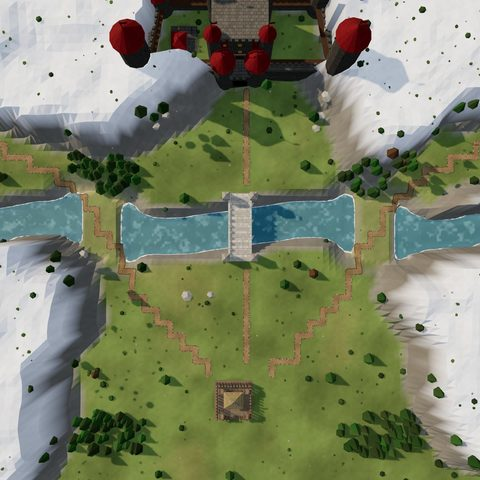
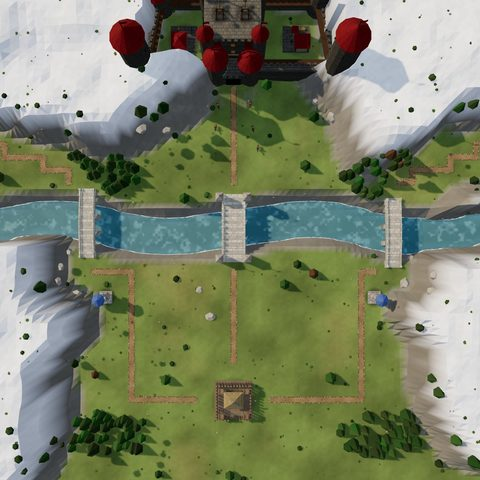
Warlord's Hold: stables back, door meets the ground, gate/road/bridge aligned, horse guard idling outside, two trebuchets on the keep, waving bridge flags, stone bridges and straight roads on the side passes, tier-3 archer towers by them
Claude-Session: https://claude.ai/code/session_01AE8sRRsVdpH9ETfQvtppox

diff --git a/index.html b/index.html
@@ -1108,12 +1108,15 @@ function keepHeight(x, z) {
 }
 // Warlord's Hold (stage 12, final boss, 80 m): snowy mountains round the north and both sides, the hold on a crag at the top, a river
 // across the middle (a stone bridge on the gate's road, frozen crossings where the two mountain passes come down), pines on the slopes
-const HOLD_POLY = [[28, 4.5], [52, 4.5], [54, 15], [26, 15]], HOLD_GATE = [40, 15];
+// the gate, the grand bridge and the road all on x 39, the middle of the road's cell (Jack: the road ran a cell right of the door)
+const HOLD_POLY = [[28, 4.5], [52, 4.5], [54, 15], [26, 15]], HOLD_GATE = [39, 15];
 const HOLD_MTNS = [[14, 12, 20, 16, 1], [66, 12, 20, 16, 2], [6, 52, 11, 23, 3], [74.5, 52, 11, 23, 4]];
 const HOLD_RIVER = smoothPts([[-1, 38], [12, 36], [26, 40], [40, 38], [54, 36], [66, 40], [81, 38]]);
-const HOLD_PASSES = [smoothPts([[-1, 25], [8, 28], [15, 33], [20, 42], [24, 49], [30, 56], [35, 61]]), smoothPts([[81, 25], [72, 28], [65, 33], [60, 42], [56, 49], [50, 56], [45, 61]])];
-const HOLD_ROADS = [[[40, 17], [40, 33]], [[40, 43], [40, 60]], ...HOLD_PASSES];
-const HOLD_ICE = [17.6, 61.8];   // where the two passes cross the river: a plain land crossing (a ford of grass and earth)
+// the two mountain passes: down from the side edges to a stone bridge each (x 16 and 64), then in long straight runs to the castle's
+// sides (Jack: the diagonal roads laid as zigzags; they crossed the river by land before)
+const HOLD_PASSES = [[[-1, 25], [8, 28], [14, 31], [16, 33], [16, 45], [22, 45], [22, 65], [34, 65]], [[81, 25], [72, 28], [66, 31], [64, 33], [64, 45], [58, 45], [58, 65], [44, 65]]];
+const HOLD_ROADS = [[[39, 17], [39, 33]], [[39, 43], [39, 60]], ...HOLD_PASSES];
+const HOLD_ICE = [];   // where the two passes cross the river: a plain land crossing (a ford of grass and earth)
 const holdMtn = (x, z) => Math.max(...HOLD_MTNS.map(([cx, cz, rx, rz, sd]) => 1 - sstep(.75, 1.05, blobD(x, z, [cx, cz, rx, rz], sd)))) * sstep(3, 6, Math.min(...HOLD_PASSES.map(p => polyDist(p, x, z))));
 const holdOpen = (x, z) => holdMtn(x, z) < .5;
 const holdRiverZ = x => { const P = HOLD_RIVER; for (let i = 0; i < P.length - 1; i++) if (x >= P[i][0] && x <= P[i + 1][0]) return lerp(P[i][1], P[i + 1][1], (x - P[i][0]) / (P[i + 1][0] - P[i][0])); return 38; };
@@ -1122,13 +1125,17 @@ function holdHeight(x, z) {
   h += holdMtn(x, z) * (9 + 12 * fbm(x * .07 + 5, z * .07 + 9));
   h += 3.2 * (1 - sstep(.4, 1.1, blobD(x, z, [40, 9.5, 16, 10], 6)));
   if (inPoly(HOLD_POLY, x, z)) h = 6 + .1 * fbm(x * .3, z * .3);
+  // a ramp down from the gate, so its door meets the ground (Jack)
+  else if (z > 14.5 && z < 22) h = lerp(h, lerp(6, h, sstep(15.4, 21.5, z)), sstep(3.4, 2.2, Math.abs(x - HOLD_GATE[0])));
   h = lerp(3 + (h - 3) * .35, h, sstep(6, 11, Math.hypot(x - KX, z - KZ)));
   const fd = Math.min(...HOLD_ICE.map(f => Math.abs(x - f))), ice = sstep(4.2, 2.6, fd), ramp = sstep(9, 4.5, fd);
   const d = polyDist(HOLD_RIVER, x, z), river = lerp(-1.3, h, lerp(sstep(2.2, 4.6, d), sstep(2.4, 9, d), ramp));
   return d < 5 ? Math.max(river, lerp(river, .6 + .05 * vnoise(x * .9, z * .9), ice)) : river;
 }
 // the boss stages' fixed scenery nobody walks through or builds on: the keep and the burned village's ruins, the hold
-const sceneryAt = (x, z) => MAP === 'keep' ? inPoly(KEEP_POLY, x, z) || KEEP_RUINS.some(([a, b]) => Math.hypot(x - a, z - b) < 1.3) : MAP === 'hold' ? inPoly(HOLD_POLY, x, z) : false;
+// the Warlord's horse guard idling outside the gate (Jack: livelier): tier-3 horse swords, scenery
+const HOLD_RIDERS = [[36.6, 19.2, .3], [41.6, 19, -.3], [36.2, 22.4, -.15], [42, 22.6, .2], [42.8, 25.6, -.1]];
+const sceneryAt = (x, z) => MAP === 'hold' && HOLD_RIDERS.some(([a, b]) => Math.hypot(x - a, z - b) < .8) ? true : MAP === 'keep' ? inPoly(KEEP_POLY, x, z) || KEEP_RUINS.some(([a, b]) => Math.hypot(x - a, z - b) < 1.3) : MAP === 'hold' ? inPoly(HOLD_POLY, x, z) : false;
 // the maps with ground nobody may walk or build on (Mountain pass's mountains, Greenvale's hills)
 const mapOpen = (x, z) => MAP === 'pass' ? passOpen(x, z) : MAP === 'vale' ? valeOpen(x, z) : MAP === 'hold' ? holdOpen(x, z) : true;
 function genHeight(x, z) {
@@ -1188,7 +1195,7 @@ const bridgeCell = new Uint8Array(N_MAX * N_MAX), BRIDGE_RISE = .45, DECK_W = 1.
 // where each map's bridges cross: a start point and a direction, marched along until the river is crossed
 function bridgeRays() {
   if (MAP === 'pass' || MAP === 'vale' || MAP === 'cross' || MAP === 'watch' || MAP === 'dune' || MAP === 'crag' || MAP === 'plains' || MAP === 'keep') return [];
-  if (MAP === 'hold') { const z0 = holdRiverZ(40); return [{ ox: 40, oz: z0 - 9, dx: 0, dz: 1, stone: true, grand: true, w: 3.2 }]; }
+  if (MAP === 'hold') return [{ ox: 39, oz: holdRiverZ(39) - 9, dx: 0, dz: 1, stone: true, grand: true, w: 3.2 }, ...[16, 64].map(x => ({ ox: x, oz: holdRiverZ(x) - 9, dx: 0, dz: 1, stone: true }))];
   if (MAP === 'mere') return [MERE_BRIDGE];
   if (MAP === 'ford') return [{ ox: FORD_BRIDGE_X, oz: fordRiverZ(FORD_BRIDGE_X) - 10, dx: 0, dz: 1, stone: true }];
   if (MAP === 'bend') return BEND_BRIDGES.map(([ox, oz, dx, dz]) => ({ ox, oz, dx, dz }));
@@ -2741,7 +2748,7 @@ function makeStoneBridge(b) {
     for (const s of [-1, 1]) for (const x of [-1, 1]) {
       const z = s * (L / 2 - .6), y = yAt(z), tw = box(1.1, 3.2, 1.1, M.stone2, x * (W / 2 + .5), y + 1.4, z); g.add(tw);
       const cap = new THREE.Mesh(new THREE.ConeGeometry(.85, 1.1, 4), M.plainStone); cap.position.set(x * (W / 2 + .5), y + 3.55, z); cap.rotation.y = Math.PI / 4; g.add(cap);
-      g.add(cyl(.035, .035, 1.2, 5, M.timber, x * (W / 2 + .5), y + 4.6, z)); const f = box(.03, .34, .55, raiderRed, x * (W / 2 + .5), y + 4.95, z - .28); g.add(f);
+      g.add(cyl(.035, .035, 1.2, 5, M.timber, x * (W / 2 + .5), y + 4.6, z)); g.add(flagBox(.55, .34, .03, raiderFlagM(), x * (W / 2 + .5) + .28, y + 4.95, z));
     }
     for (let z = -L / 2 + 1.4; z < L / 2 - 1.3; z += .9) for (const x of [-1, 1]) g.add(box(.26, .2, .34, M.stone2, x * (W / 2 + .1), yAt(z) + .74, z));
   }
@@ -2749,6 +2756,8 @@ function makeStoneBridge(b) {
   g.position.set(b.mx, 0, b.mz); g.rotation.y = Math.atan2(b.dx, b.dz);
   return g;
 }
+// the raiders' red flag, waving like the town's (M.flag's shader); the grand bridge's flags fly the same way as the hold's
+let _rfm = null; const raiderFlagM = () => { if (!_rfm) { _rfm = M.flag.clone(); _rfm.onBeforeCompile = M.flag.onBeforeCompile; _rfm.color.set('#8e1d16'); } return _rfm; };
 function buildBridges() { for (const b of bridges) { b.g = makeBridge(b); scene.add(b.g); } }
 
 // ---------- the other economy picks: forester, mine, farmhouse ----------
@@ -6775,7 +6784,7 @@ function buildRaiderKeep(g) {
   placeModel(g, 'rack', 1, 45, 19); placeModel(g, 'campfire', 1, 45.5, 14.5); placeModel(g, 'stores', 1, 35.5, 12.5); placeModel(g, 'rack', 1, 47, 17);
 }
 function buildWarlordsHold(g) {
-  const P = HOLD_POLY, [gx, gz] = HOLD_GATE, cx = 40, cz = 9.5, Y = (x, z) => hAt(x, z), y0 = Y(cx, cz);
+  const P = HOLD_POLY, [gx, gz] = HOLD_GATE, cx = gx, cz = 9.5, Y = (x, z) => hAt(x, z), y0 = Y(cx, cz);
   // the hold stands on its crag's flat top, but its walls sit on the crag's edge where the ground falls away outside: every wall piece,
   // tower and the keep reach down to the lowest ground under them (Jack saw the east side floating), their tops stay level
   const low = (x, z, r) => { let m = Y(x, z); for (let i = 0; i < 12; i++) { const a = i / 12 * Math.PI * 2; for (const f of [.5, 1, 1.6]) m = Math.min(m, Y(x + Math.cos(a) * r * f, z + Math.sin(a) * r * f)); } return m - 1.2; };
@@ -6803,7 +6812,7 @@ function buildWarlordsHold(g) {
   }
   // the gatehouse: two round towers either side of an arched passage, a portcullis
   for (const sx of [-1, 1]) roundTower(gx + sx * 2.4, gz, 1.5, 6.8);
-  { const y = Y(gx, gz), b = low(gx, gz, 1.6); g.add(box(3.4, y + 4.3 - b, 2.6, M.stone, gx, (y + 4.3 + b) / 2, gz)); g.add(box(2.2, 2.8, 2.7, M.dark, gx, y + 1.1, gz + .02));
+  { const y = Y(gx, gz), b = low(gx, gz, 1.6); g.add(box(3.4, y + 4.3 - b, 2.6, M.stone, gx, (y + 4.3 + b) / 2, gz)); g.add(box(2.2, 2.9, 2.7, M.dark, gx, y + 1.15, gz + .02));
     for (let k = -.8; k <= .81; k += .4) g.add(box(.06, 2.6, .06, M.iron, gx + k, y + 1.2, gz + 1.32)); g.add(box(2, .08, .06, M.iron, gx, y + 1.9, gz + 1.32));
     merlons(gx - 1.7, gz + 1.25, gx + 1.7, gz + 1.25, y + 4.3, 0, -1); }
   // the keep: a tall masonry block, four corner turrets with cone roofs, two rows of windows, a framed door, hanging banners
@@ -6814,8 +6823,9 @@ function buildWarlordsHold(g) {
   for (const r of [3.6, 6.4]) for (const k of [-2.2, 0, 2.2]) g.add(box(.55, .9, .06, M.glow, cx + k, y0 + r, cz + 3.12));
   g.add(box(1.3, 2.1, .1, DOOR_M[3], cx, y0 + 1.05, cz + 3.13)); for (const sx of [-1, 1]) g.add(box(.25, 2.4, .25, M.stone2, cx + sx * .8, y0 + 1.2, cz + 3.15)); g.add(box(1.85, .3, .3, M.stone2, cx, y0 + 2.4, cz + 3.15));
   for (const sx of [-1, 1]) { const b = box(1, 3, .05, M.flag, cx + sx * 2.2, y0 + 6.8, cz + 3.15); b.castShadow = true; g.add(b); }
-  // inside the walls: the town's garrison (the royal stables were dropped: Jack)
-  placeModel(g, 'barracks', 3, 31.5, 9.5, 1, Math.PI / 2);
+  // inside the walls: the town's garrison and royal stables; two trebuchets on the keep's roof, aimed south (Jack)
+  placeModel(g, 'barracks', 3, 31.5, 9.5, 1, Math.PI / 2); placeModel(g, 'stables', 3, 48.5, 9.5, 1, -Math.PI / 2);
+  for (const sx of [-1, 1]) placeModel(g, 'catapult', 3, cx + sx * 1.7, cz, .9).position.y = y0 + 9.5;
 }
 function placeBossScenery() {
   if (bossMesh) { scene.remove(bossMesh); bossMesh = null; }
@@ -6828,7 +6838,19 @@ function placeBossScenery() {
     for (let i = 0; i < 4; i++) { const a = i * Math.PI / 2 + .3, h = .5 + hash(x + i, z) * 1.1, w = box(1.7, h, .22, charM, x + Math.cos(a) * .85, yy + h / 2 - .1, z + Math.sin(a) * .85); w.rotation.y = -a + Math.PI / 2; g.add(w); }
     const bm = box(2, .18, .18, charM, x, yy + .4, z); bm.rotation.set(.3, hash(x, z) * 3, .4); g.add(bm);
   }
+  if (MAP === 'hold') { holdRiders = HOLD_RIDERS.map(([x, z, ry], i) => { const p = makeRaider('rider', 3); p.g.scale.setScalar(UNIT_K); p.g.position.set(x, hAt(x, z), z); p.g.rotation.y = ry; p.g.traverse(o => { if (o.isMesh) o.castShadow = true; }); g.add(p.g); return { p, ry, s: i * 1.9 + .7 }; }); }
+  else holdRiders = [];
   scene.add(g); bossMesh = g;
+}
+// they shift their weight, turn a little, the horses now and then paw the ground and toss their heads
+let holdRiders = [];
+function animHoldRiders(t) {
+  for (const R of holdRiders) { const { p, s } = R, paw = Math.max(0, Math.sin(t * .5 + s)) ** 8;
+    p.g.rotation.y = R.ry + .14 * Math.sin(t * .23 + s);
+    if (p.horse) { p.horse.rotation.x = -.03 * paw + .012 * Math.sin(t * 1.3 + s); p.horse.position.y = .01 * Math.sin(t * 1.1 + s); }
+    if (p.horseLegs) p.horseLegs.forEach((l, i) => { l.rotation.x = i === 0 ? -.6 * paw * Math.max(0, Math.sin(t * 6 + s)) : 0; });
+    if (p.arms) p.arms[1].rotation.x = -.25 + .08 * Math.sin(t * .7 + s);
+  }
 }
 // paths laid along polylines, cell by cell, diagonal steps joined so they stay connected
 function layRoads(list) {
@@ -7229,7 +7251,11 @@ function startGame() {
   if (MAP === 'plains') { yaw = 0; target.z -= 2; layRoads(PLAINS_ROADS); rebuildRoads(); }
   placeBossScenery();
   if (MAP === 'keep') { yaw = 0; target.z -= 10; layRoads(KEEP_ROADS); rebuildRoads(); }   // from the south, looking up at the keep
-  if (MAP === 'hold') { yaw = 0; target.z -= 10; layRoads(HOLD_ROADS); rebuildRoads(); }                   // from the south: the fords ahead                   // from the south: the north bridge at the top
+  if (MAP === 'hold') { yaw = 0; target.z -= 10; layRoads(HOLD_ROADS); rebuildRoads();
+    // a tier-3 archer tower of the town's by each side bridge, on the near bank (Jack)
+    for (const [x, z] of [[19, 48], [61, 48]]) { const ev = findValid('tower', Math.floor(x / CELL), Math.floor(z / CELL), { free: true }); if (!ev) continue;
+      const B = place('tower', ev.ci, ev.cj, { instant: true, free: true, quiet: true }); if (B) { B.tier = 3; B.max = DEF.tower.hp[2]; B.hp = B.max; swapModel(B); } }
+  }                   // from the south: the fords ahead                   // from the south: the north bridge at the top
   if (MAP === 'watch') { yaw = 0; target.x += 7; target.z -= 4; layRoads(WATCH_ROADS); rebuildRoads(); placeRuin(); }   // from the south: Watch hill ahead, the gully on the right   // from the south, the cross and the north road ahead
   BANK_WALL = MAP === 'bridge' ? BANK_WALL : [];
   if (MAP === 'vale') guideOn = true;               // the tutorial stage: the guided first day every time (Skip ends it)
@@ -7665,7 +7691,7 @@ function frame(now) {
   if (paused || menuOn()) { if (!lite || fresh || (liteN = (liteN + 1) % 2) === 0) renderer.render(scene, camera); requestAnimationFrame(frame); if ((hudT -= dt) <= 0) { hudT = .2; updateHud(); } return; }
   const gdt = dt * gameSpeed;            // game time runs faster at 2×; the camera does not
   if (!gameOver) { updatePhase(gdt); updateVillagers(gdt, now); updateEco(gdt); updateMoves(gdt); updateEnemies(gdt); updateDefense(gdt); separateUnits(gdt); updateDoors(gdt); updateFallen(gdt); updateChips(gdt); updateSplashes(gdt); }
-  updateArrows(gdt); updateAmbience(dt); updateVolley(gdt); updateTrees(now); emitSmoke(gdt); updateBirds(gdt);
+  updateArrows(gdt); updateAmbience(dt); updateVolley(gdt); updateTrees(now); emitSmoke(gdt); updateBirds(gdt); if (holdRiders.length) animHoldRiders(now / 1000);
   if (anims.length) {
     for (let n = anims.length - 1; n >= 0; n--) { const a = anims[n], t = clamp((now - a.t0) / a.dur, 0, 1); applyPlan(a.plan, easeOut(t)); if (t >= 1) anims.splice(n, 1); }
     syncTerrain();

diff --git a/CLAUDE.md b/CLAUDE.md
@@ -81,7 +81,7 @@ The whole game is currently one self-contained file: `index.html` (~165 KB, thre
 - **Map size per stage** (`MAP_N`, `setMapSize(n)` at the top of `startGame`): every stage is 28 × 28 cells (56 m) except the boss stages, 40 × 40 (80 m; Jack asked for them big). `N`, `SIZE` and `V` are `let`; every buffer is allocated once at the largest size (`N_MAX` 40, `V_MAX` 81: heights, cells, regions, bridges, the tree and path-stone instances) and indexed with the current `N`/`V`; on a size change `setMapSize` re-lays the ground's vertex grid and triangles (`terrainGrid`), the Grid overlay (`gridLines`), the water plane, the sun and its shadow box, and `CAM_LIM.hi`. The water's bed texture `hTex` is always `V_MAX` wide (the shader divides by `V_MAX`).
 - **Bosses** (`ENEMY.chief`, `ENEMY.warlord`, `boss`: drawn that much bigger; always sent at tier 3; renders in `design/characters/bosses.png`): the **Raider Chief** on foot (hp 520 × 2.3, dmg 14 × 1.65, a sword and a big red round shield, a horned helm with a gold band, a long red cloak) and the **Warlord** mounted (hp 820 × 2.3, dmg 18 × 1.65, ×2 speed, a gold crown of points and a red plume on the great helm, a red heater shield rimmed in gold, the cloak, a horse in dark barding with red flank cloths and a gilded face plate); gear from `bossGear`. Both ride or march for the castle (`pickTarget`), come last of their night's column (`startNight`), get a bigger health bar, and their arrival shows a banner with their name and "Boss" and a log line. Gallery row "Bosses" (drawn at their own size).
 - **Raider Keep** (`MAP` 'keep', Stage 11, boss, 80 m; from `design/stages/stage11-raider-keep.svg`): the raiders' keep at the top (`KEEP_POLY`, a six-sided yard on a rocky rise, gate at `KEEP_GATE`): the first layout's shape (Jack liked it) in the detail of the town's buildings (`buildRaiderKeep`, from `placeBossScenery`): sharpened palisade logs with rails and a wall-walk inside, the town's lookout tower at every corner, the town's timber gate (×1.5) flanked by two lookouts, a great tower (masonry with buttresses, a jettied timber-framed storey with windows, a shingled pyramid roof, a door, a roof flag), a log hall with a gable roof and a chimney, and the town's weapon racks, campfire and siege stores in the yard; everything darkened (`darkFort`: cloned materials × .26 linear, about half as bright on screen, the town's blue turned red; see-through flames left alone; cached in `darkMats`), so it never reads as the player's, a dry ditch below it open only at the gate (`KEEP_DITCH`), two roads from the gate round the burned village (`KEEP_RUINS`, blackened wall stubs) and dead trees (`bare` trees: trunks only, out of reach) to the town at the bottom (castle `KX/KZ` 41,67); ground red in the north, scorched in the middle, green in the south (`recolor`); green woods in the two south corners, plenty of stone. The keep, its yard and the ruins are scenery nobody walks or builds on (`sceneryAt`, in `canStand`, `cellPass`, `evaluate` "Occupied"). Raiders come round both sides of the fort (Jack: spawns west and east of it, 40% each) and a few out of its gate. Rules (`MAP_RULES.keep`): **7 nights** after a **10-minute first day** (Jack), 20–75 raiders a night with siege from night 3, the **Raider Chief** at the tail of night 7; days 600/120…; spawn gap .8 s; start gold 50 wood 30 stone 0 food 30; every building, tier 3 (win: survive; "break the keep" not built).
-- **Warlord's Hold** (`MAP` 'hold', Stage 12, final boss, 80 m; from `design/stages/stage12-warlords-hold.svg`): snowy mountains round the north and both sides (`HOLD_MTNS`, closed ground like Mountain pass's: `holdOpen` in `mapOpen`; snow from about 10.5 m on this map in `recolor`), the Warlord's hold on a crag at the top (`HOLD_POLY`, gate at `HOLD_GATE`; `buildWarlordsHold`): masonry curtain walls with merlons and a timber wall-walk, round corner towers (arrow slits, merlon crowns, cone roofs, roof flags), a gatehouse of two round towers round a dark arched passage with a portcullis, a tall keep with four cone-roofed corner turrets, two rows of windows, a framed door and hanging banners, and the town's tier-3 garrison inside (the royal stables were dropped: Jack); every wall piece (1.5 m sections), tower, the gatehouse and the keep reach down to the lowest ground under and just outside them (`low`), with level tops (`TOP`), so nothing floats where the crag falls away (Jack saw the east side floating); roofed towers have no merlons (they cut through the cones) and the keep's merlons stop short of its corner turrets; darkened by `darkFort` (blue roofs and flags turn red), a river across the middle (`HOLD_RIVER`, flows west) with a **grand stone bridge** on the gate's road (`grand: true`, `w` 3.2: a wider deck, units walk all of it (`onDeck` reads `b.w`), tall stone towers with red flags at both ends, merlons on the parapets) and two plain land crossings where the passes cross (`HOLD_ICE`, wide grassy bars at .6 with gentle banks; they were icy white at first, Jack wanted a normal pathway), two mountain passes from the side edges (`HOLD_PASSES`), pines on the lower slopes and in the south corners (out-of-reach pines up the mountains), stone at the mountains' feet; castle `KX/KZ` 39,65. Raiders out of the hold's gate; from night 3 some down the west pass, from night 4 the east too. Rules (`MAP_RULES.hold`): **7 nights** after a **10-minute first day**, the **Warlord** and eight tier-3 horse swords (his mounted guard) on night 7; days 600/120…; spawn gap .75 s; start gold 50 wood 30 stone 0 food 30; every building, tier 3.
+- **Warlord's Hold** (`MAP` 'hold', Stage 12, final boss, 80 m; from `design/stages/stage12-warlords-hold.svg`): snowy mountains round the north and both sides (`HOLD_MTNS`, closed ground like Mountain pass's: `holdOpen` in `mapOpen`; snow from about 10.5 m on this map in `recolor`), the Warlord's hold on a crag at the top (`HOLD_POLY`, gate at `HOLD_GATE`; `buildWarlordsHold`): masonry curtain walls with merlons and a timber wall-walk, round corner towers (arrow slits, merlon crowns, cone roofs, roof flags), a gatehouse of two round towers round a dark arched passage with a portcullis, a tall keep with four cone-roofed corner turrets, two rows of windows, a framed door and hanging banners, and the town's tier-3 garrison and royal stables inside, two trebuchets (`makeCatapult(3)`) on the keep's roof; five tier-3 horse swords idle outside the gate (`HOLD_RIDERS`, scenery in `sceneryAt`, not darkened, `animHoldRiders`: turn a little, paw, shift); a ramp down from the gate so its door meets the ground; gate, keep, grand bridge and road all on x 39, the middle of the road's cell (the road ran a cell right of the door); every wall piece (1.5 m sections), tower, the gatehouse and the keep reach down to the lowest ground under and just outside them (`low`), with level tops (`TOP`), so nothing floats where the crag falls away (Jack saw the east side floating); roofed towers have no merlons (they cut through the cones) and the keep's merlons stop short of its corner turrets; darkened by `darkFort` (blue roofs and flags turn red), a river across the middle (`HOLD_RIVER`, flows west) with a **grand stone bridge** on the gate's road (`grand: true`, `w` 3.2: a wider deck, units walk all of it (`onDeck` reads `b.w`), tall stone towers with red flags at both ends, merlons on the parapets) its flags red and waving east like the hold's (`raiderFlagM`); two plain stone bridges where the side passes cross the river (x 16 and 64; they were land crossings, `HOLD_ICE` is now empty), each with a free tier-3 archer tower of the town's on the near bank; two mountain passes from the side edges (`HOLD_PASSES`, also the roads: down to their bridge, then long straight runs to the castle's sides, no diagonals: diagonal roads lay as zigzags), pines on the lower slopes and in the south corners (out-of-reach pines up the mountains), stone at the mountains' feet; castle `KX/KZ` 39,65. Raiders out of the hold's gate; from night 3 some down the west pass, from night 4 the east too. Rules (`MAP_RULES.hold`): **7 nights** after a **10-minute first day**, the **Warlord** and eight tier-3 horse swords (his mounted guard) on night 7; days 600/120…; spawn gap .75 s; start gold 50 wood 30 stone 0 food 30; every building, tier 3.
 - **Stage town picker** (Jack's design): a stage with more decor unlocked than `DECOR_PICK`, or both buildings of a pair unlocked (`stageBoth`, picks in `localStorage['mtd-stage-pair']`, `STAGE_PAIR`, `stagePair`) (`stagePicks(map)`: Watchhill on) opens the Choose-your-town screen from its preview's Play (`showLoadPick(map)`, `stagePick`): its buildings are set (the unlocked one of each pair picked, the other locked), the decor it has unlocked are picked four of, and everything not unlocked yet shows only a padlock, no name, icon or cost (Jack's call; `LOCK_ICO`, `.ldOpt.locked`, a tap knocks `nope`); Back returns to the stage preview, Start plays. Picks per stage in `localStorage['mtd-stage-decor']` (`STAGE_DECOR`, `stageDecor(map)`: by default the newest four); `applyLoadout` trims the stage's decor to them (in `cats` order), so `?map=watch` uses them too.
 - **Tiers by stage** (`maxTier` in `CAMP_MAPS`, `tierCap()`): Stages 1–3 stay at tier 1 (no Upgrade button, `upgrade` refuses; Stage 1's guide drops its upgrade step), Stage 4 opens tier 2 (Jack moved it from Stage 3; `newTier: 2` adds a "Tier 2" card after its building cards: "Upgrades" only (the house / gold / archer before → after examples were dropped: Jack)); free play has all three.
 - Raiders pick targets by walking distance, never a straight line across water (`pickTarget` → `reachTarget`: `landField` is a breadth-first cell count over land and bridges, buildings counted as open since they break through; unreachable buildings are skipped) and route on the cell grid with `walkTo` (mode 2) toward a fixed point on the side they reach first (`e.tp`, reset on each 3 s retarget); when buildings or walls close every route, `walkTo` falls back to a mode-3 path (`cellPass` mode 3 ignores occupancy) so they walk to whatever blocks the way and break it (they used to walk straight at the target and stand at a riverbank on River isle); straight `steer` only within 3 m and over open ground (`clearLine`); `edgePoint` falls back to mode-3 routes for a walled-in town; a wall in the way (stuck or 3.5 s without progress) is attacked as before. A raider spawned a metre or so from its point never lands on ground it can't stand on (`spawnEnemy` falls back to the point itself). Spawn points (`edgePoint`) must be walkable (`cellPass` mode 2) and have a route to the castle's door (a route to the castle's centre never exists: it is inside the building), else raiders spawned on steep edge hills stood stuck.
